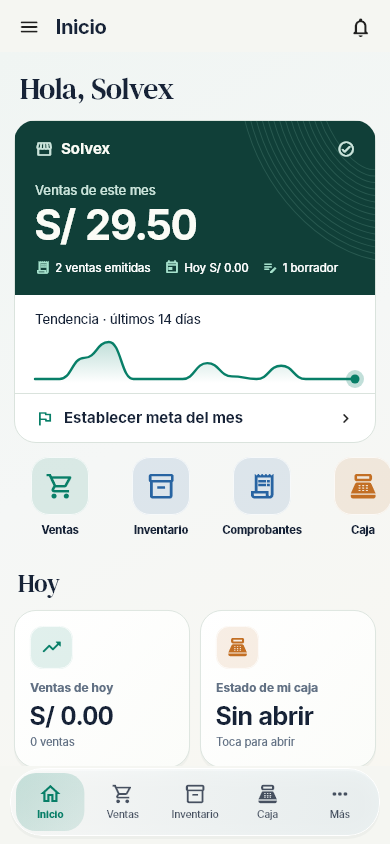
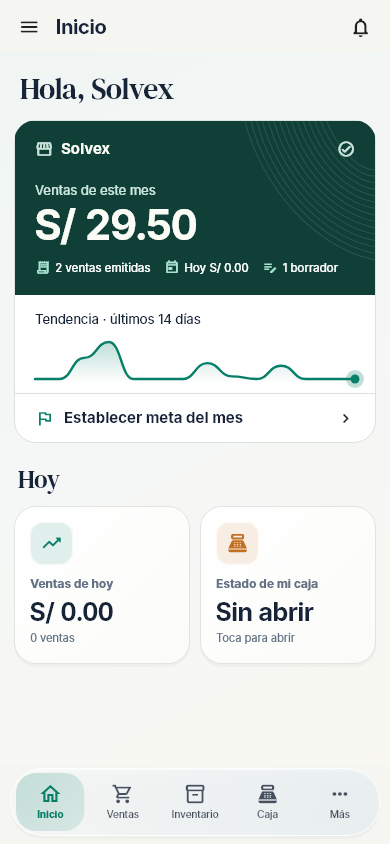
fix(inicio): elimina la fila de accesos que duplica la navegación

diff --git a/app/lib/ui/retail_home_premium.dart b/app/lib/ui/retail_home_premium.dart
@@ -163,67 +163,6 @@ class _AccentIcon extends StatelessWidget {
   }
 }
 
-/// Quick actions have one source of navigation truth: the containing MainShell.
-class RetailHomeQuickActions extends StatelessWidget {
-  const RetailHomeQuickActions({
-    super.key, required this.onNavigate,
-    required this.allowed,
-  });
-  final ValueChanged<String> onNavigate;
-  final Set<String> allowed;
-
-  @override
-  Widget build(BuildContext context) {
-    const items = <(String, String, IconData, Color)>[
-      ('sell', 'Ventas', Icons.shopping_cart_outlined, RetailAccent.teal),
-      ('stock', 'Inventario', Icons.inventory_2_outlined, RetailAccent.blue),
-      ('comprobantes', 'Comprobantes', Icons.receipt_long_outlined, RetailAccent.blue),
-      ('cash', 'Caja', Icons.point_of_sale_outlined, RetailAccent.amber),
-      ('fiados', 'Fiados', Icons.account_balance_wallet_outlined, RetailAccent.teal),
-    ];
-    final visible = items.where((item) => allowed.contains(item.$1)).toList();
-    if (visible.isEmpty) return const SizedBox.shrink();
-    return SizedBox(
-      height: 104,
-      child: ListView(
-        key: const ValueKey('retail-home-shortcuts'),
-        physics: const BouncingScrollPhysics(),
-        scrollDirection: Axis.horizontal,
-        padding: const EdgeInsets.symmetric(horizontal: 16),
-        children: [
-          for (final (id, label, icon, tint) in visible)
-            Padding(
-              padding: const EdgeInsets.only(right: 13),
-              child: SizedBox(
-                width: 88,
-                child: Semantics(
-                  button: true, label: 'Abrir $label',
-                  child: InkWell(
-                    key: ValueKey('retail-home-quick-$id'),
-                    onTap: () {
-                      HapticFeedback.selectionClick();
-                      onNavigate(id);
-                    },
-                    borderRadius: BorderRadius.circular(18),
-                    child: Column(children: [
-                      _AccentIcon(icon: icon, tint: tint, size: 58),
-                      const SizedBox(height: 8),
-                      Text(label, maxLines: 1, overflow: TextOverflow.ellipsis,
-                        textAlign: TextAlign.center,
-                        style: Theme.of(context).textTheme.labelSmall?.copyWith(
-                          color: Theme.of(context).colorScheme.onSurface,
-                          fontSize: 11, fontWeight: FontWeight.w700)),
-                    ]),
-                  ),
-                ),
-              ),
-            ),
-        ],
-      ),
-    );
-  }
-}
-
 /// Colored dashboard tile used solely for the retail operational overview.
 class RetailHomeStat extends StatelessWidget {
   const RetailHomeStat({

diff --git a/app/test/retail_premium_home_2026_test.dart b/app/test/retail_premium_home_2026_test.dart
@@ -10,7 +10,6 @@ void main() {
       tester.view.devicePixelRatio = 1;
       addTearDown(tester.view.reset);
       var goalTap = false;
-      final nav = <String>[];
       await tester.pumpWidget(MaterialApp(
         theme: buildTheme(Brightness.light),
         home: Scaffold(body: SingleChildScrollView(
@@ -28,10 +27,6 @@ void main() {
               onGoal: () => goalTap = true,
               chart: const SizedBox(height: 48),
             )),
-            RetailHomeQuickActions(
-              allowed: const {'sell','stock','comprobantes','cash','fiados'},
-              onNavigate: nav.add,
-            ),
             const Padding(padding: EdgeInsets.all(12),
               child: RetailHomeStat(
                 label: 'Estado de mi caja',
@@ -49,8 +44,6 @@ void main() {
       expect(tester.takeException(), isNull);
       await tester.tap(find.byKey(const ValueKey('bodega-goal-action')));
       expect(goalTap, isTrue);
-      await tester.tap(find.byKey(const ValueKey('retail-home-quick-sell')));
-      expect(nav, ['sell']);
       expect(tester.takeException(), isNull);
     });
   }
@@ -78,24 +71,14 @@ void main() {
       ));
       expect(find.byKey(const ValueKey('bodega-premium-bottom-dock')),
           findsOneWidget);
-      await tester.tap(find.byKey(const ValueKey('bodega-dock-sell')));
-      await tester.pump();
-      expect(navigated, ['sell']);
+      for (final id in ['sell', 'stock', 'cash']) {
+        await tester.tap(find.byKey(ValueKey('bodega-dock-$id')));
+        await tester.pump();
+      }
+      expect(navigated, ['sell', 'stock', 'cash']);
       await tester.tap(find.byKey(const ValueKey('bodega-dock-more')));
       expect(more, isTrue);
       expect(tester.takeException(), isNull);
     });
   }
-
-  testWidgets('los accesos se ocultan sin permisos', (tester) async {
-    await tester.pumpWidget(MaterialApp(
-      theme: buildTheme(Brightness.light),
-      home: Scaffold(body: RetailHomeQuickActions(
-        allowed: const {'stock'},
-        onNavigate: (_) {},
-      )),
-    ));
-    expect(find.byKey(const ValueKey('retail-home-quick-stock')), findsOneWidget);
-    expect(find.byKey(const ValueKey('retail-home-quick-sell')), findsNothing);
-  });
 }

diff --git a/app/lib/screens/inicio.dart b/app/lib/screens/inicio.dart
@@ -21,7 +21,6 @@ import '../services/v2_repo.dart';
 import '../ui/motion.dart';
 import '../ui/widgets.dart';
 import '../ui/retail_layout.dart';
-import '../ui/retail_home_premium.dart';
 import '../ui/work_queue.dart';
 import '../ux/rubro_experience.dart';
 import 'catalog.dart';
@@ -35,9 +34,7 @@ import '../nav/navigation_contract.dart';
 import '../permissions.dart';
 
 class InicioScreen extends StatefulWidget {
-  const InicioScreen({super.key, this.onNavigate});
-
-  final ValueChanged<String>? onNavigate;
+  const InicioScreen({super.key});
 
   @override
   State<InicioScreen> createState() => _InicioScreenState();
@@ -314,22 +311,6 @@ class _InicioScreenState extends State<InicioScreen> with LiveReload<InicioScree
               ),
             ),
           ),
-          if (isBodega && widget.onNavigate != null)
-            SliverToBoxAdapter(
-              child: Padding(
-                padding: const EdgeInsets.only(top: 18, bottom: 7),
-                child: RetailHomeQuickActions(
-                  onNavigate: widget.onNavigate!,
-                  allowed: {
-                    if (a.has('facturar') && a.can('sell')) 'sell',
-                    if (a.has('stock') && (a.can('sell') || a.can('products_edit'))) 'stock',
-                    if (a.has('facturar') && a.allows('sales.read')) 'comprobantes',
-                    if (a.has('caja') && a.can('collect')) 'cash',
-                    if (a.has('fiados') && a.can('collect')) 'fiados',
-                  },
-                ),
-              ),
-            ),
           if ((!isBodega ? _primary(a) : null) case final p?)
             SliverToBoxAdapter(
               child: Padding(

diff --git a/app/test/visual/signature_preview.dart b/app/test/visual/signature_preview.dart
@@ -409,7 +409,7 @@ void main() {
         ),
       ),
     ),
-    'inicio': (_) => InicioScreen(onNavigate: (_) {}),
+    'inicio': (_) => const InicioScreen(),
     'cobrado': (_) => const PosPaymentSuccessScreen(
       invoiceId: 'invoice-1',
       method: 'efectivo',
@@ -521,6 +521,25 @@ void main() {
           find.byKey(const ValueKey('capture')),
           matchesGoldenFile('../../tool/previews/signature/$name.png'),
         );
+        if (name == 'navegacion-390') {
+          for (final label in ['Ventas', 'Inventario', 'Caja']) {
+            expect(find.text(label), findsOneWidget);
+          }
+          await tester.tap(find.byKey(const ValueKey('bodega-dock-more')));
+          await tester.pumpAndSettle();
+          final receipts = find.widgetWithText(
+            NavigationDrawerDestination,
+            'Comprobantes',
+          );
+          expect(
+            find.widgetWithText(NavigationDrawerDestination, 'Fiados'),
+            findsOneWidget,
+          );
+          await tester.ensureVisible(receipts);
+          await tester.tap(receipts);
+          await tester.pumpAndSettle();
+          expect(find.widgetWithText(AppBar, 'Comprobantes'), findsOneWidget);
+        }
         await tester.pumpWidget(const SizedBox());
         await tester.pump(const Duration(seconds: 1));
       });

diff --git a/app/tool/visual_preview.dart b/app/tool/visual_preview.dart
@@ -50,11 +50,7 @@ Widget _home() => Column(children: [
               values: [0, 0, 8, 14, 0, 0, 0, 6, 1, 0, 5, 0, 0, 0],
               height: 45, color: FvLuxe.jade),
             onGoal: () {})),
-        const SizedBox(height: 14),
-        RetailHomeQuickActions(
-          onNavigate: (_) {},
-          allowed: const {'sell', 'stock', 'comprobantes', 'cash', 'fiados'}),
-        Padding(padding: const EdgeInsets.fromLTRB(18, 8, 18, 12),
+        Padding(padding: const EdgeInsets.fromLTRB(18, 22, 18, 12),
           child: Text('Hoy', style: buildTheme(Brightness.light).textTheme.headlineSmall)),
         Padding(padding: const EdgeInsets.symmetric(horizontal: 14),
           child: Row(children: [

diff --git a/app/lib/screens/shell.dart b/app/lib/screens/shell.dart
@@ -320,7 +320,7 @@ class _MainShellState extends State<MainShell> {
     if (rubroFor(_settings?.businessType) != null) {
       switch (id) {
         case 'home':
-          return InicioScreen(onNavigate: _go);
+          return const InicioScreen();
         case 'collect':
           return const OwedHubScreen();
         case 'business':
